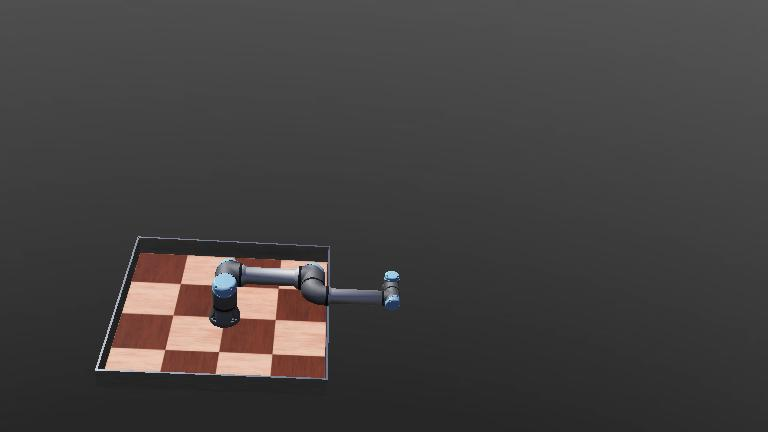
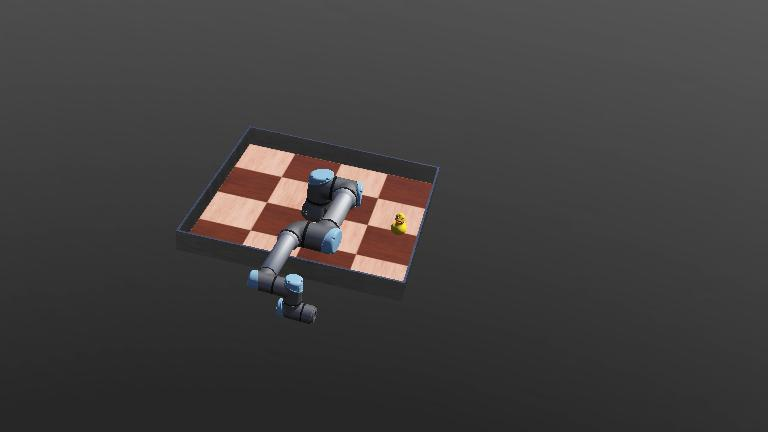
added the get_object_{translation, rotation, pose} method

Changed region(s): [[0.125, 0.331, 0.5625, 0.9028]]

diff --git a/src/dqrobotics/interfaces/webots/DQ_WebotsInterface.cpp b/src/dqrobotics/interfaces/webots/DQ_WebotsInterface.cpp
@@ -35,6 +35,7 @@ class DQ_WebotsInterface::Impl
 protected:
     std::unordered_map<std::string, webots::PositionSensor*> position_sensor_map_;
     std::unordered_map<std::string, webots::Motor*> motor_sensor_map_;
+    std::unordered_map<std::string, webots::Node*> nodes_map_;
 
     /**
      * @brief _get_position_sensor gets the PositionSensor pointer given the name of the sensor.
@@ -66,6 +67,15 @@ protected:
         // Update the motor sensor map
         motor_sensor_map_.try_emplace(motor_name, motor);
         return motor;
+    }
+
+
+    webots::Node* _get_node(const std::string& objectname)
+    {
+        webots::Node* node = supervisor_->getFromDef(objectname);
+        check_pointer(node, "Object \""+objectname+"\" not found in the current world file. \n");
+        nodes_map_.try_emplace(objectname, node);
+        return node;
     }
 
     /**
@@ -122,6 +132,18 @@ public:
                              std::bind(&DQ_WebotsInterface::Impl::_get_position_sensor, this, std::placeholders::_1));
     }
 
+
+    /**
+     * @brief get_object_node_from_map
+     * @param objectname
+     * @return
+     */
+    webots::Node* get_object_node_from_map(const std::string& objectname)
+    {
+        return _get_element_from_map<webots::Node*>(objectname, nodes_map_,
+                                                     std::bind(&DQ_WebotsInterface::Impl::_get_node, this, std::placeholders::_1));
+    }
+
     /**
      * @brief check_sizes This method throws an exception with a desired message if
                            the sizes of v1 and v2 are different.
@@ -175,6 +197,44 @@ void DQ_WebotsInterface::trigger_next_simulation_step() const
 {
     _check_connection(error_msg_layout_+std::string(__func__));
     impl_->supervisor_->step(get_sampling_period());
+}
+
+
+/**
+ * @brief DQ_WebotsInterface::get_object_pose
+ * @param objectname
+ * @return
+ */
+DQ DQ_WebotsInterface::get_object_pose(const std::string &objectname)
+{
+    const DQ p = get_object_translation(objectname);
+    const DQ r = get_object_rotation(objectname);
+    return r+0.5*E_*p*r;
+}
+
+DQ DQ_WebotsInterface::get_object_translation(const std::string &objectname)
+{
+    webots::Field *trans_field = impl_->get_object_node_from_map(objectname)->getField("translation");
+    const double *t = trans_field->getSFVec3f();
+    const double x = t[0];
+    const double y = t[1];
+    const double z = t[2];
+    return  x*i_ + y*j_ + z*k_;
+}
+
+
+
+DQ DQ_WebotsInterface::get_object_rotation(const std::string &objectname)
+{
+    webots::Field *rot_field = impl_->get_object_node_from_map(objectname)->getField("rotation");
+    const double *rv = rot_field->getSFRotation();
+    const double x = rv[0];
+    const double y = rv[1];
+    const double z = rv[2];
+    const double angle = rv[3];
+
+    DQ n = (x*i_ + y*j_ + z*k_).normalize();
+    return cos(angle/2) + n*sin(angle/2);
 }
 
 
@@ -243,8 +303,8 @@ bool DQ_WebotsInterface::connect(const std::string &robot_definition)
 {
     if (not impl_->robot_node_){
 
-        impl_->robot_node_ = impl_->supervisor_->getFromDef(robot_definition);
-
+        //impl_->robot_node_ = impl_->supervisor_->getFromDef(robot_definition);
+        impl_->robot_node_ = impl_->get_object_node_from_map(robot_definition);
 
         std::string msg1 = "1. No DEF \""+robot_definition+"\" node found in the current world file. \n";
         std::string msg2 = "2. The robot controller is not set to <extern>. \n";
@@ -259,8 +319,8 @@ bool DQ_WebotsInterface::connect(const std::string &robot_definition)
 
 
 /**
- * @brief DQ_WebotsInterface::set_sampling_period specifies the duration of the control steps, i.e., the wb_robot_step
- *                     function shall compute 32 milliseconds of simulation and then return.
+ * @brief DQ_WebotsInterface::set_sampling_period specifies the duration of the control steps. For instance, if you use
+ *                     set_sampling_period(32), this function shall compute 32 milliseconds of simulation and then return.
  *                     This duration specifies an amount of simulated time, not real (wall clock) time,
  *                     so it may actually take 1 millisecond or one minute of real time, depending on the complexity of
  *                     the simulated world.

diff --git a/include/dqrobotics/interfaces/webots/DQ_WebotsInterface.h b/include/dqrobotics/interfaces/webots/DQ_WebotsInterface.h
@@ -25,10 +25,7 @@ Contributors:
 */
 
 #pragma once
-
-#pragma once
 #include <dqrobotics/DQ.h>
-#include <atomic>
 #include <memory>
 
 using namespace DQ_robotics;
@@ -51,9 +48,15 @@ public:
     void set_stepping_mode(const bool& flag) const;
     void trigger_next_simulation_step() const;
 
+
+    DQ   get_object_translation(const std::string& objectname);
+    DQ   get_object_rotation   (const std::string& objectname);
+    DQ   get_object_pose       (const std::string& objectname);
+
     VectorXd get_joint_positions(const std::vector<std::string>& jointnames);
     void     set_joint_target_positions(const std::vector<std::string>& jointnames,
-                                    const VectorXd& joint_target_positions);
+                                        const VectorXd& joint_target_positions);
+
 
     //VectorXd get_joint_velocities(const std::vector<std::string>& jointnames);
 

diff --git a/src/test.cpp b/src/test.cpp
@@ -26,7 +26,9 @@ int main() {
         wb.trigger_next_simulation_step();
         wb.set_joint_target_positions(jointnames, target);
         std::cout<<wb.get_joint_positions(joint_sensors).transpose()<<std::endl;
-        std::cout<<wb.get_joint_velocities(jointnames).transpose()<<std::endl;
+        std::cout<<wb.get_object_pose("duck").translation()<<std::endl;
+        std::cout<<wb.get_object_pose("duck").rotation()<<std::endl;
+
     }
     wb.reset_simulation();
 }
